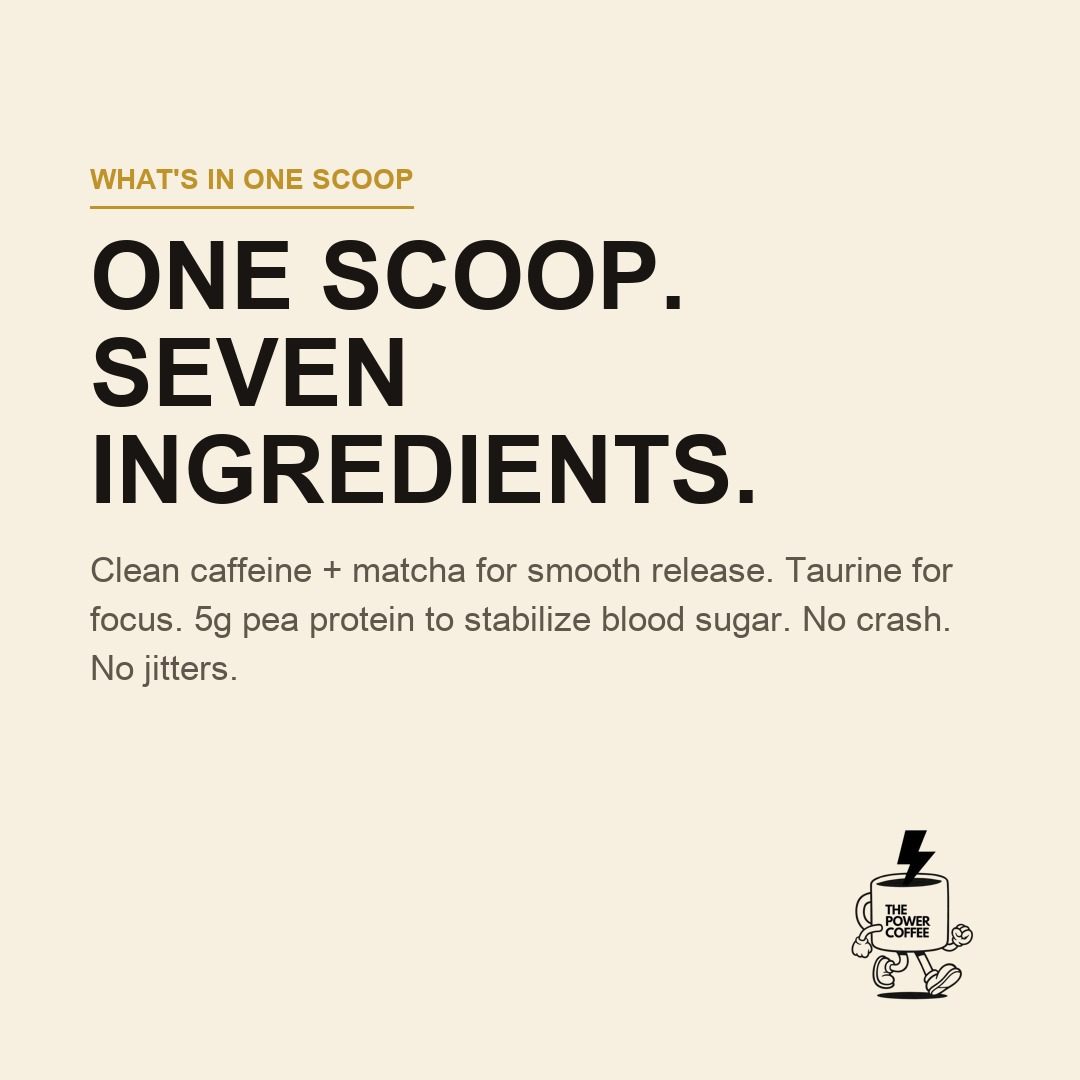
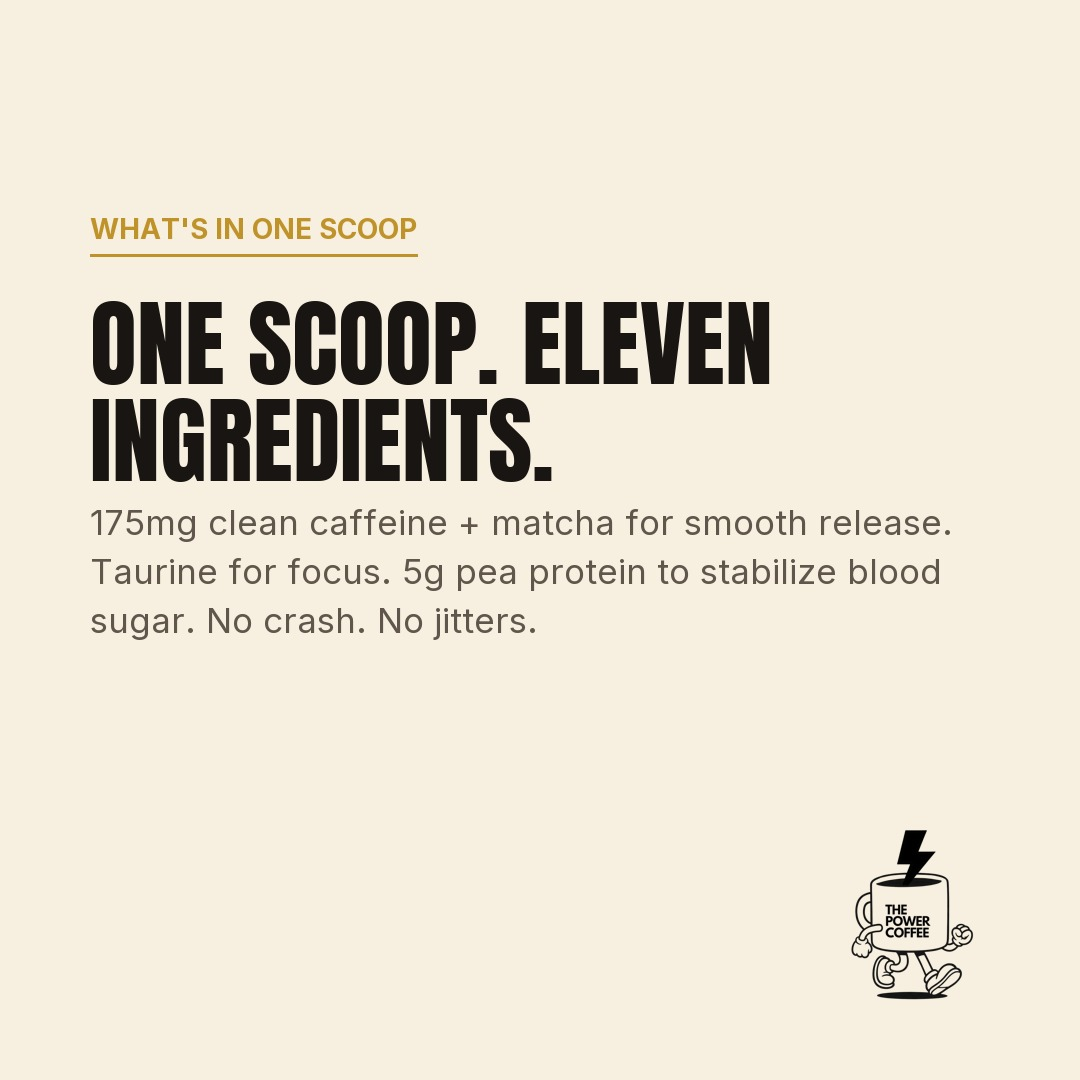
fix: 11 ingredients + 175mg caffeine (was wrongly 'seven') — brand.md, jun26 carousel re-rendered in Anton/Inter, content.md

Changed region(s): [[0.0611, 0.1528, 0.8861, 0.6417]]

diff --git a/daily_content/jun2026_content/jun26_2026/content.md b/daily_content/jun2026_content/jun26_2026/content.md
@@ -17,9 +17,9 @@ You've been meaning to try it.
 This weekend, there's no reason not to.
 
 **Slide 2:**
-One scoop. Seven ingredients.
+One scoop. Eleven ingredients.
 Here's what you actually get:
-Clean caffeine + matcha for smooth release.
+175mg clean caffeine + matcha for smooth release.
 Taurine for sustained focus.
 5g pea protein to stabilize blood sugar.
 No crash. No jitters. No second cup needed.
@@ -52,7 +52,7 @@ Your first win starts with one scoop.
 ### Caption
 You've been thinking about it long enough.
 
-One scoop. Seven ingredients. Clean energy from the first sip to the last hour of your day.
+One scoop. Eleven ingredients. Clean energy from the first sip to the last hour of your day.
 
 No crash. No jitters. No extra supplements.
 

diff --git a/brain/references/brand.md b/brain/references/brand.md
@@ -52,8 +52,11 @@
 | Ginger | Thermogenic | Metabolic support, energy blend |
 | Pea Protein | Satiety | Functional nutrition, blood sugar stability |
 
+> **Full formula = 11 functional ingredients · 175mg caffeine per serving** (confirmed by Leo, 2026-06-27). The table above lists the primary actives; 4 more complete the 11 — still to be documented here. Always say **"11 ingredients"** and **"175mg caffeine"** in content.
+
 ### Specs
 - Format: resealable pack, 15 servings
+- **11 functional ingredients · 175mg caffeine per serving**
 - Price: $17.90/pack — $1.19/serving
 - No sugar, no artificial sweeteners, no fillers, lactose-free
 - Can be used standalone or added to existing coffee ritual
